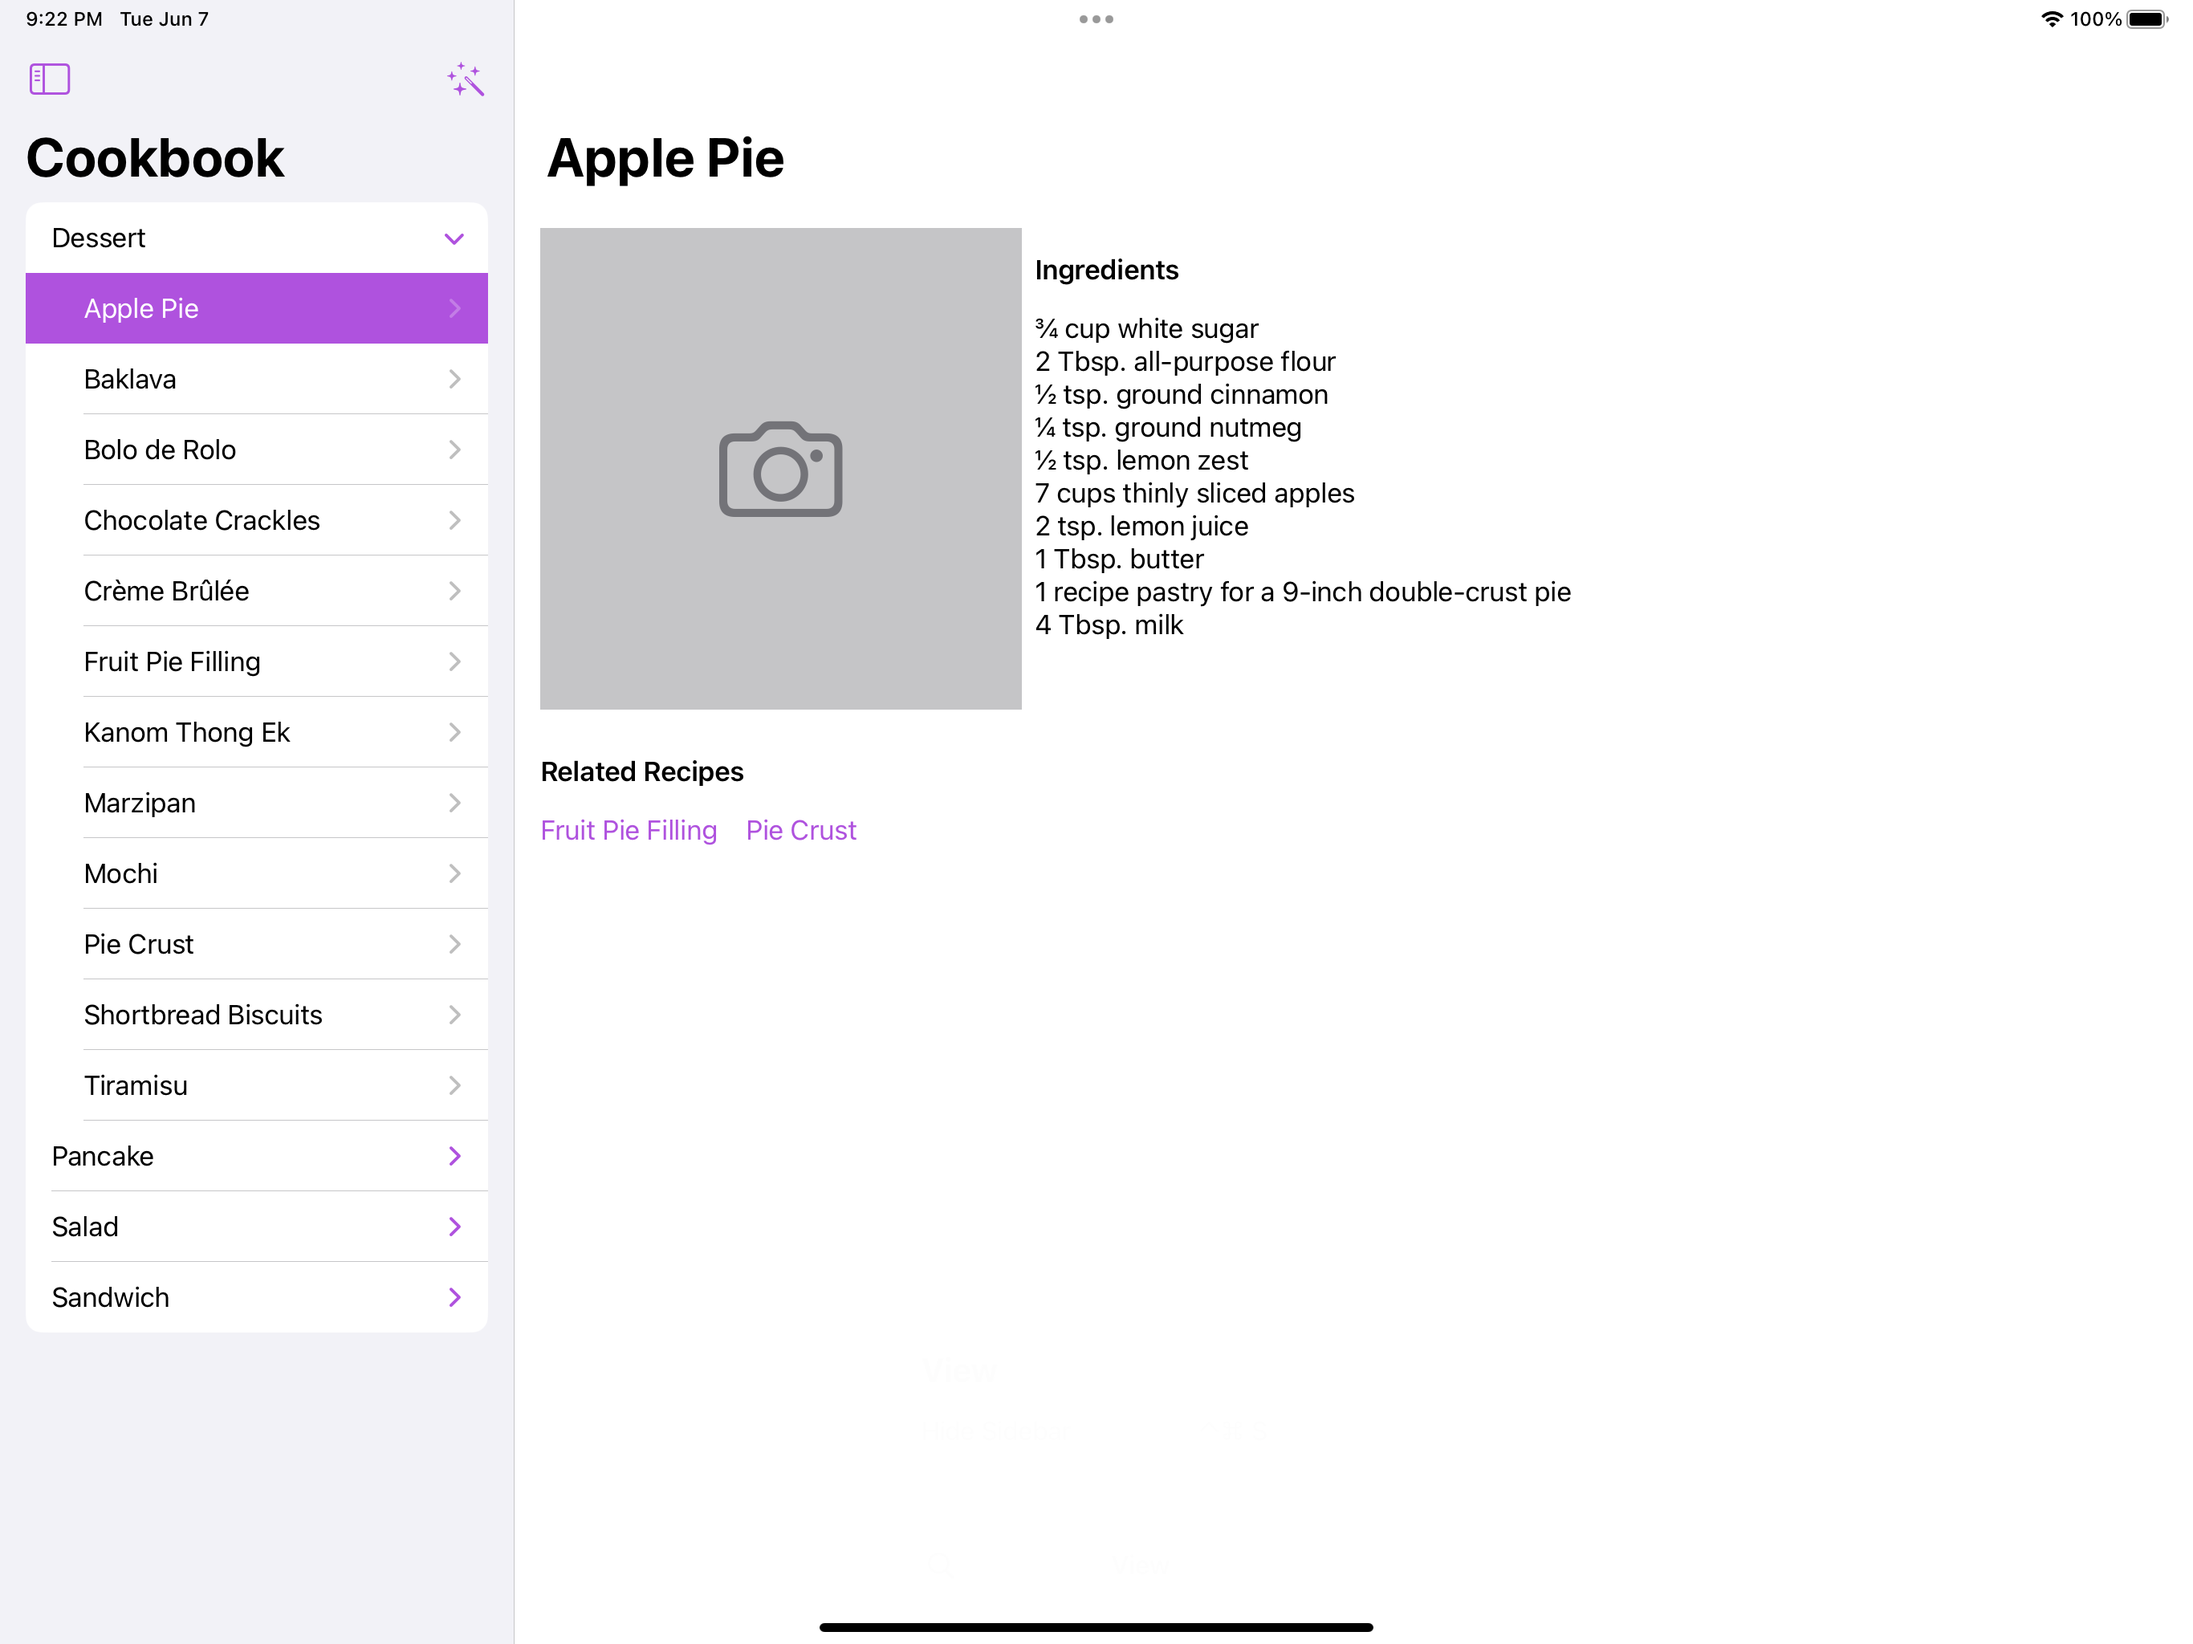
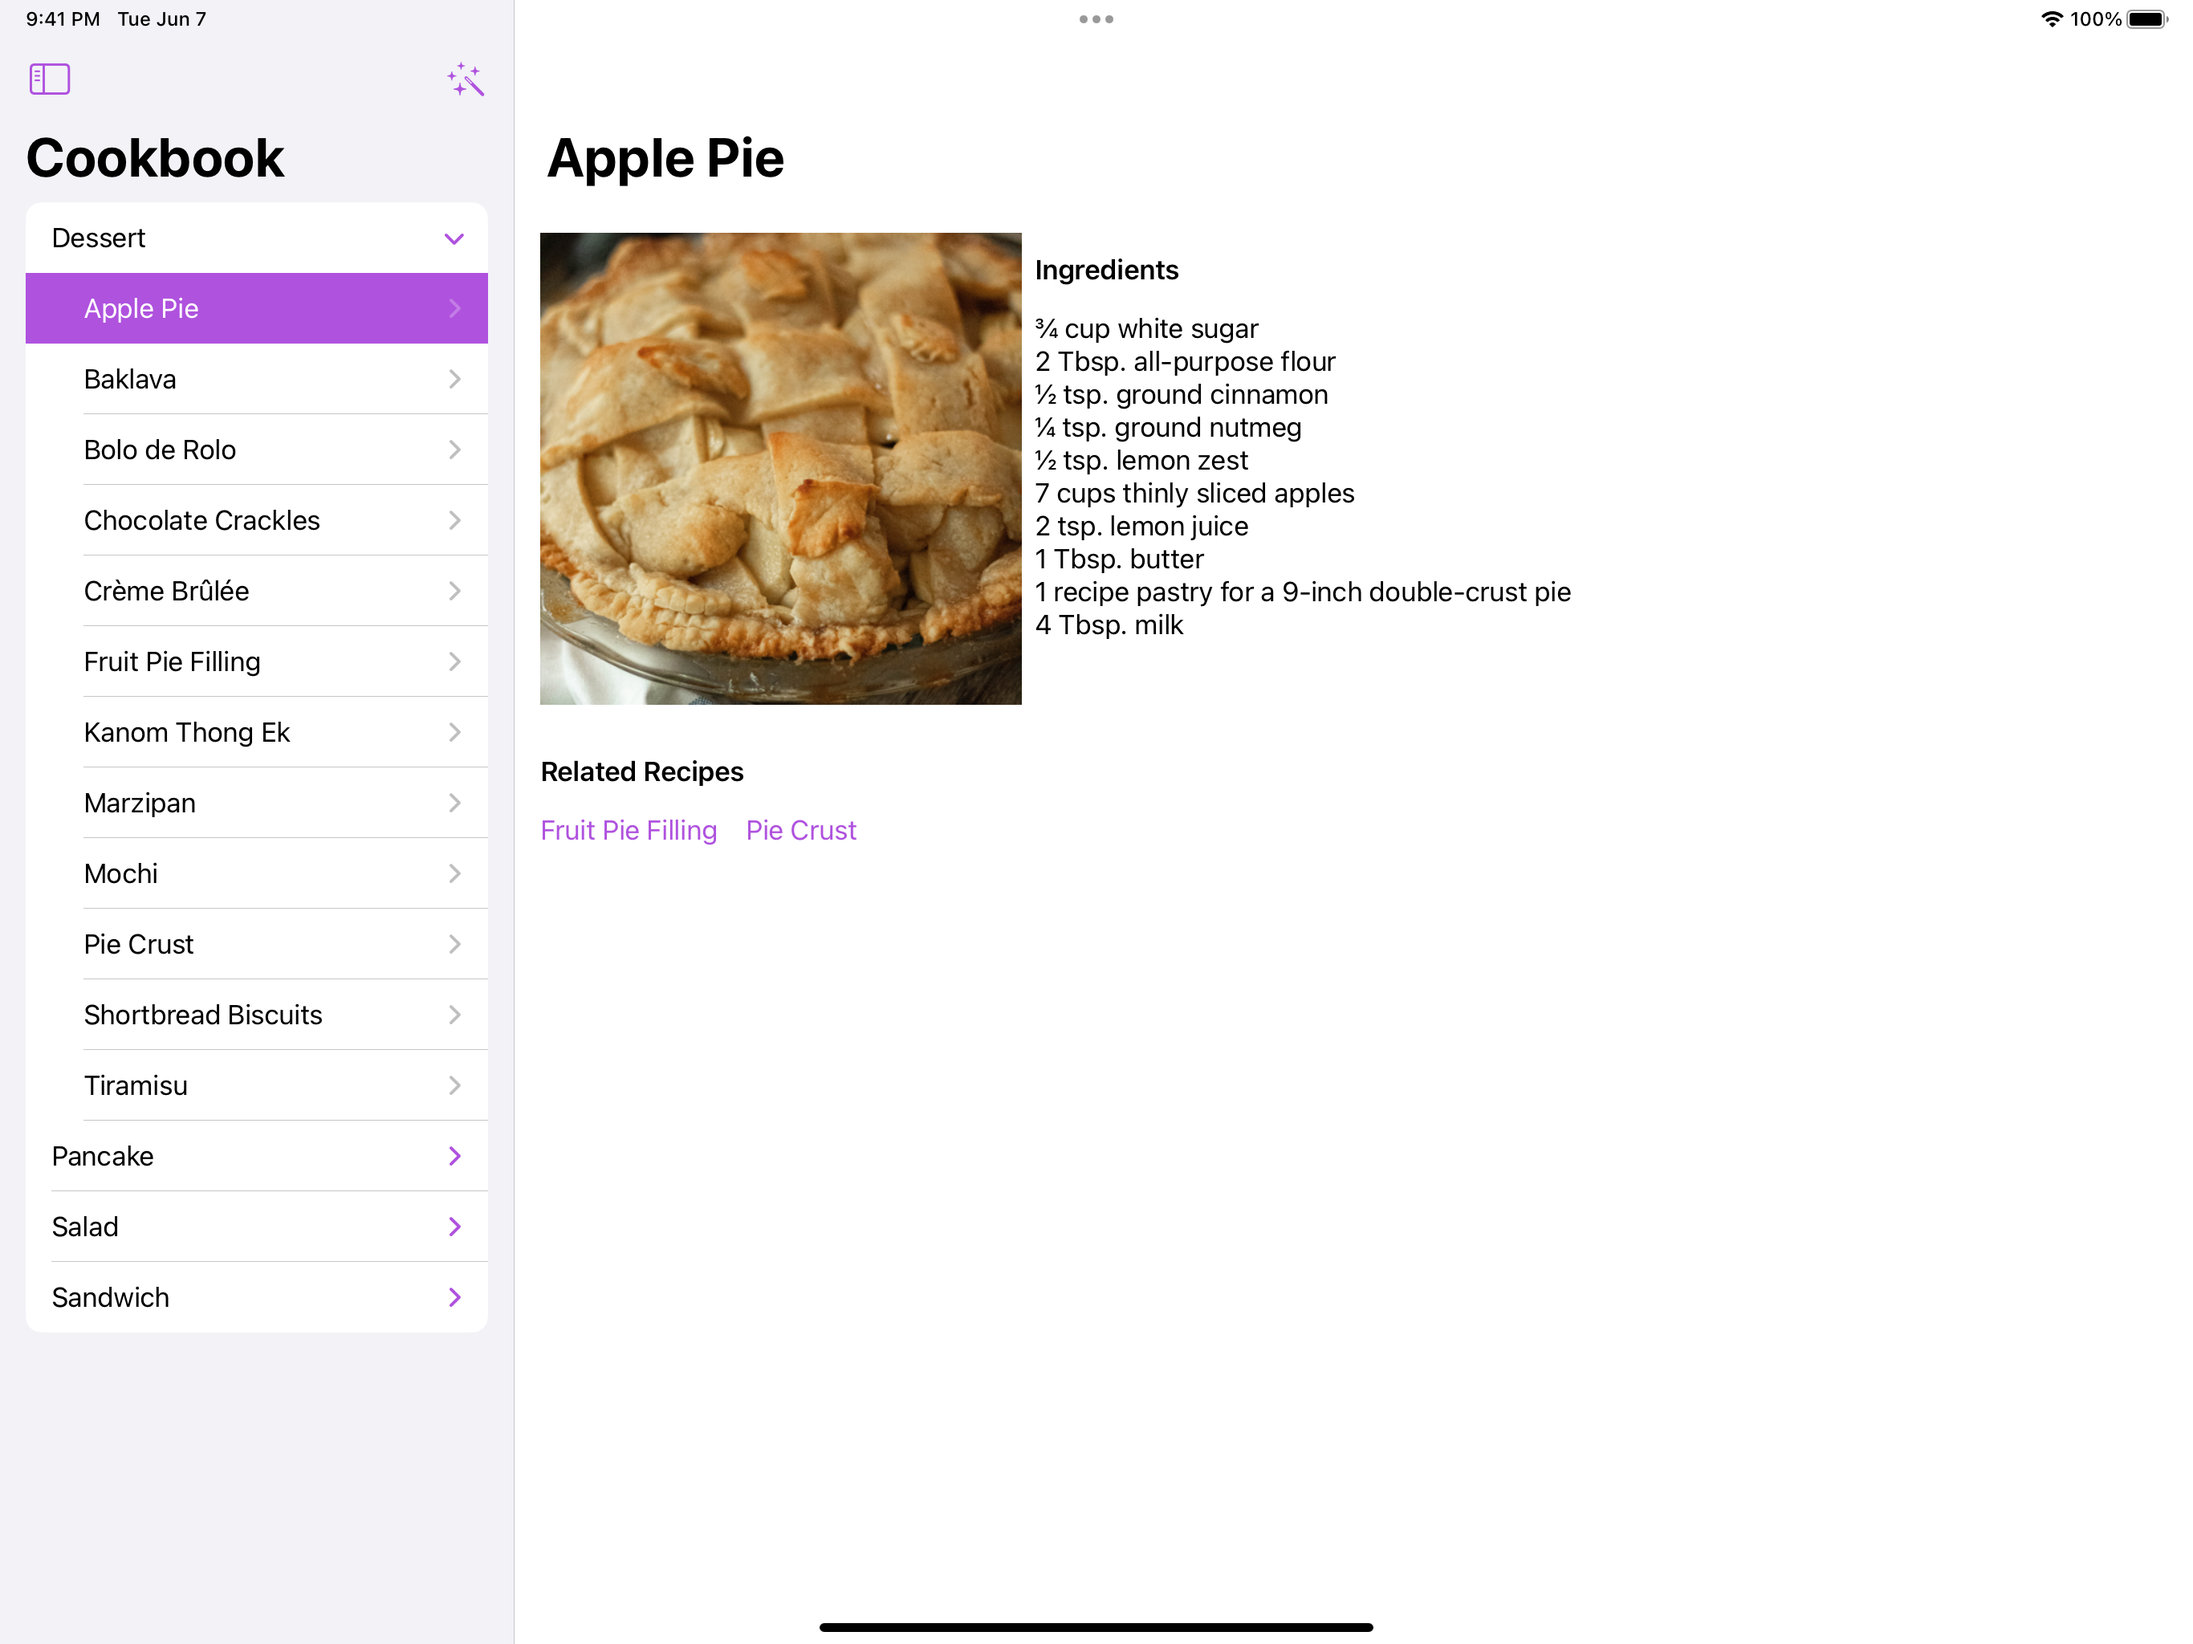
Add an apple pie image from Unsplash, https://unsplash.com/photos/T2mGUqEXfXI

Changed region(s): [[0.2489, 0.125, 0.4667, 0.4375], [0.0311, 0.0, 0.0933, 0.0312]]

diff --git a/NavigationCookbook/NavigationCookbook/Models/DataModel.swift b/NavigationCookbook/NavigationCookbook/Models/DataModel.swift
@@ -54,7 +54,8 @@ private let builtInRecipes: [Recipe] = {
     var recipes = [
         "Apple Pie": Recipe(
             name: "Apple Pie", category: .dessert,
-            ingredients: applePie.ingredients),
+            ingredients: applePie.ingredients,
+            imageName: "applepie"),
         "Baklava": Recipe(
             name: "Baklava", category: .dessert,
             ingredients: []),
